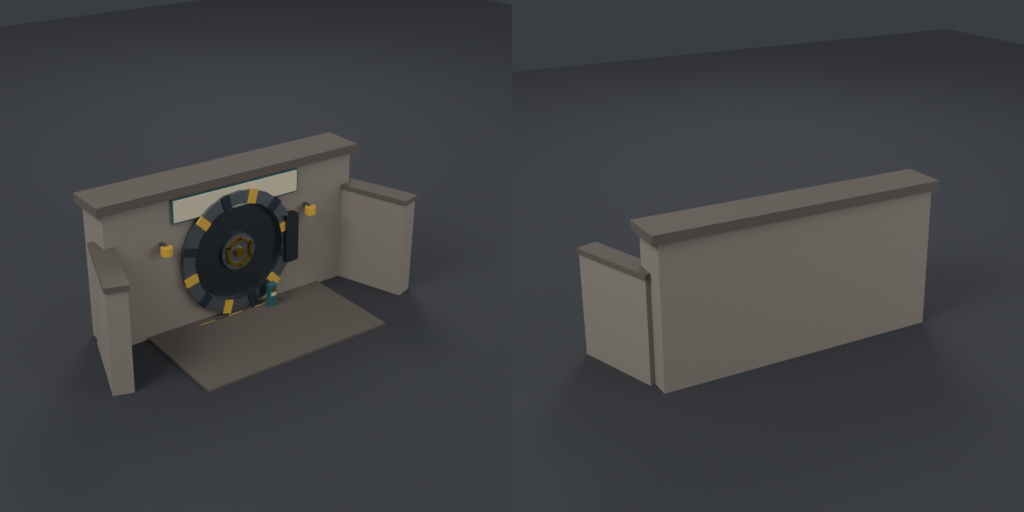
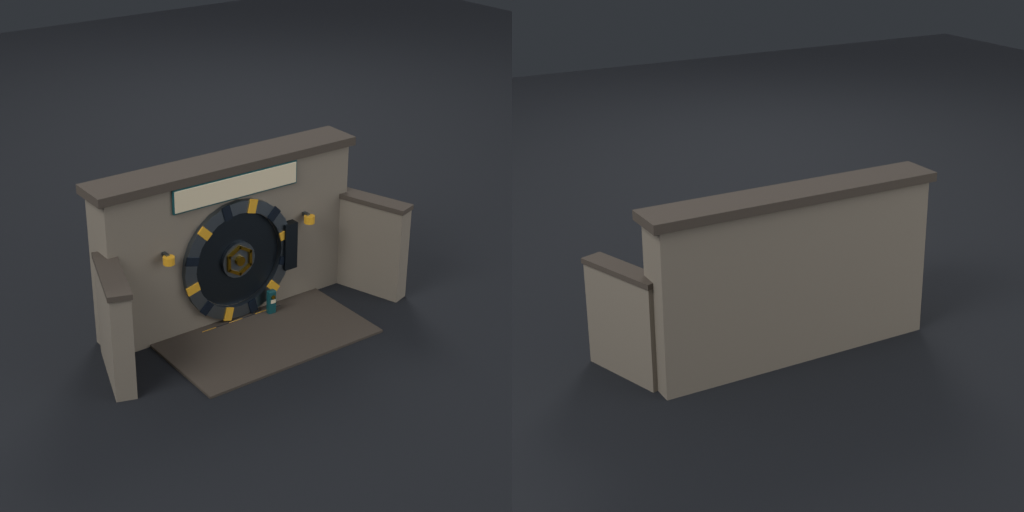
Prompt 16 playtest: spawn points out of the north hill (creatures fell through it), surface creatures that fall out of the town are removed, the entrance sign clear of the door ring, A5 captures
Claude-Session: https://claude.ai/code/session_01F5fKm1bG87oz9fPY28Z3ey

diff --git a/generators/Surface/Bldg_BunkerEntrance.py b/generators/Surface/Bldg_BunkerEntrance.py
@@ -15,11 +15,11 @@ def build():
     for i in range(6):
         bx("Decor", "hazard" if i % 2 == 0 else "navy", (2.5, 0.1, 0.06), (-6.25 + i * 2.5, -1.4, 0.43))
     # the portal: a headwall into the hill and wing walls angling out
-    bx("Headwall", "sandstone", (44, 6, 22), (0, 3, 11), collision="box")
+    bx("Headwall", "sandstone", (44, 6, 25), (0, 3, 12.5), collision="box")
     for sx in (-1, 1):
         bx(T.uid("Wing"), "sandstone", (3, 14, 16), (sx * 23.5, -4, 8), rot=(0, 0, sx * 18), collision="box")
         bx("Decor", "stone", (3.4, 14.4, 0.8), (sx * 23.5, -4, 16.2), rot=(0, 0, sx * 18))
-    bx("Decor", "stone", (46, 7, 1.4), (0, 3, 22.4))
+    bx("Decor", "stone", (46, 7, 1.4), (0, 3, 25.4))
     # the round door: a hazard-striped ring, the door itself, its hinge and wheel
     T.t(T.sf.ring(8.0, 10.0, 1.6, loc=(0, -0.2, 10.5), rot=(90, 0, 0), verts=24), "Ring", "steel", collision="box")
     for a in range(0, 360, 30):
@@ -33,8 +33,9 @@ def build():
         bx("Decor", "brass", (0.5, 0.5, 2.6), (2.0 * math.cos(r), -0.8, 10.5 + 2.0 * math.sin(r)), rot=(0, -a, 0))
     cy("Decor", "brass", 0.8, 0.8, (0, -0.9, 10.5), rot=(90, 0, 0), verts=10)
     bx("Decor", "gunmetal", (2.4, 2.0, 8), (9.6, -0.5, 10.5))                                           # the hinge
-    # the sign over the door, lamps either side
-    T.sign(0, -0.4, 19.6, 22, 3.4, swatch="cream", rim="teal")
+    # the sign over the door, clear of the ring (playtest: the ring hid the middle of the name),
+    # lamps either side
+    T.sign(0, -0.4, 22.7, 22, 3.4, swatch="cream", rim="teal")
     for sx in (-1, 1):
         bx("Decor", "steel", (0.6, 1.6, 0.6), (sx * 13, -0.6, 15))
         cy("Decor", "hazard", 0.9, 1.2, (sx * 13, -1.6, 14.5), verts=10, mat="Neon")
